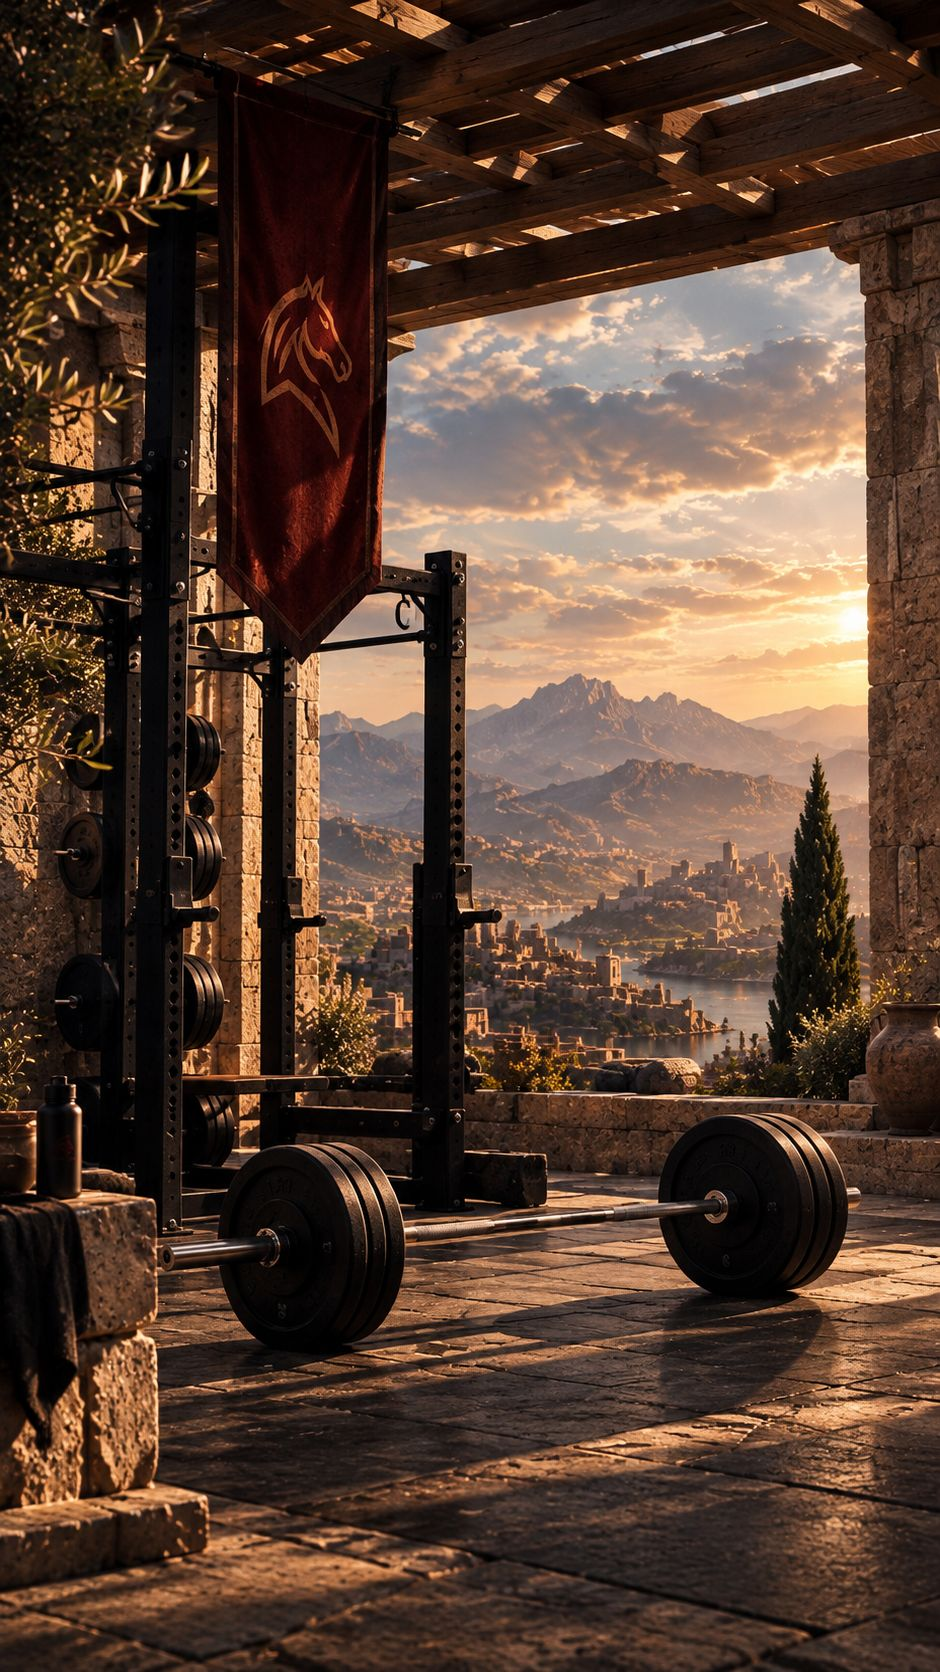
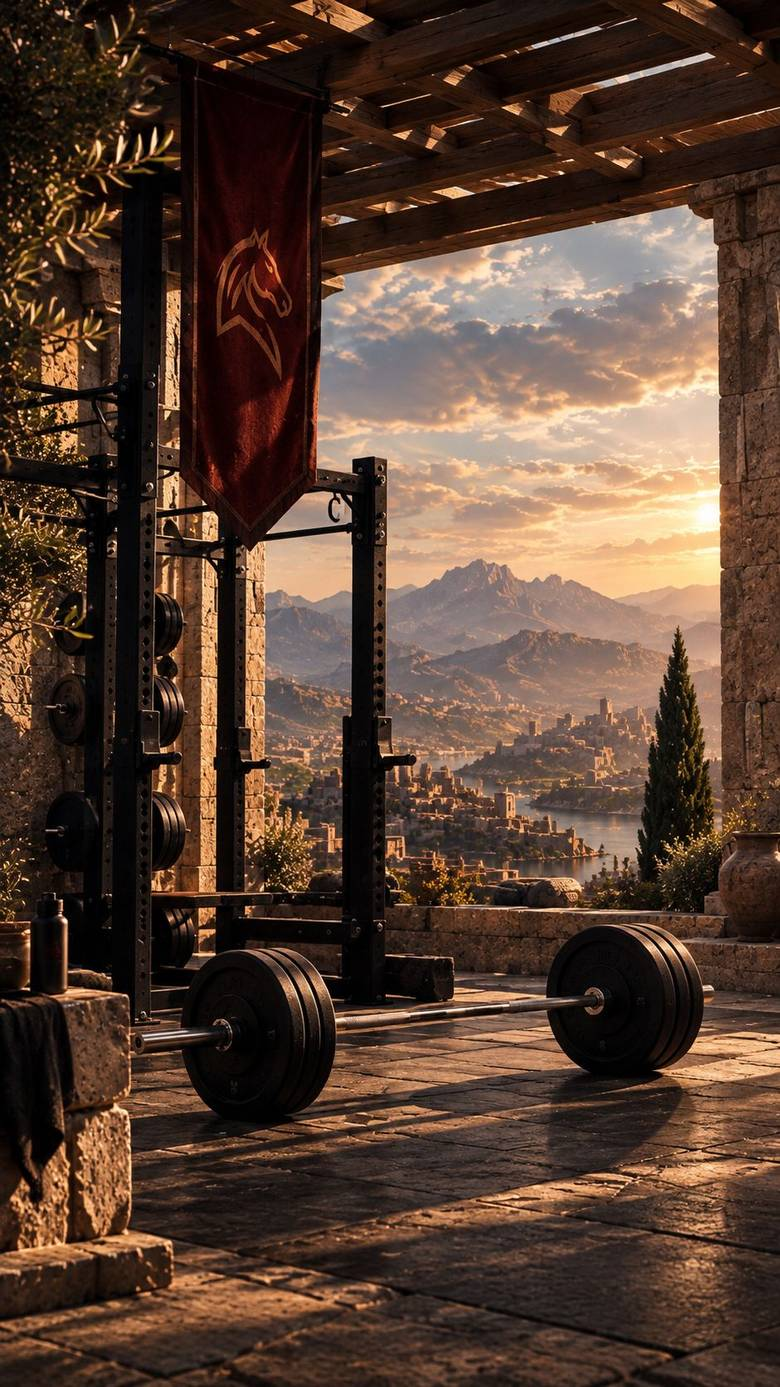
WP-9 step 4: the page photographs at a phone's size (v287)
The five large grounds re-encoded at 780 px wide, quality 70: 1,368 KB to
809 KB, about 2 MB less memory each decoded. No visible difference under the
veil. tests/design.mjs guards the size.

Claude-Session: https://claude.ai/code/session_018JDnzSTFbDYQpBWYUNHtQS

diff --git a/sw.js b/sw.js
@@ -5,7 +5,7 @@
    previous release's JS for one launch: markup the stylesheet no longer styles.
    Cache-first for images only.
    Bump CACHE whenever you change index.html. */
-const CACHE = "bunyan-v285";
+const CACHE = "bunyan-v287";
 /* instructions.json (595 KB) is deliberately absent: it is cached on first use by the
    catch-all handler below, so it no longer blocks first install. */
 const FILES = ["./", "./index.html", "./manifest.webmanifest",

diff --git a/js/version.js b/js/version.js
@@ -2,5 +2,5 @@
    The same number as sw.js's cache (bunyan-vN), shown under Profile and in About so a
    phone can be checked for an update. tests/architecture.mjs keeps the two equal: bump
    both together. */
-var VERSION=285;
+var VERSION=287;
 export {VERSION};

diff --git a/.claude/PROGRESS.md b/.claude/PROGRESS.md
@@ -4905,3 +4905,5 @@ method). Only timing and emphasis inside the same targets change. No formula cha
 
 **Restart notes say the release and when the app stopped (v285, 18 Nov).** Owner, 18 Nov, on v284: "The app is stable, but is it normal to see this message?" — Settings › About showed three "Unexpected restarts": two from the night of 17 Nov at 2 AM (the crash v273 fixed) and one at 8:53 PM on 17 Nov "after tab=train". The note is right that each was a real end of the page while it was on screen (a trace is wiped by pagehide and by going to the background, and update reloads go through pagehide), but it could not say on which release it happened, and the time it showed was the next launch's, not when the app stopped. js/ui/crashnote.js: each tap's trace carries the version (`v`), and while the app is on the screen its time is refreshed every 15 s (`s`, one small localStorage write); a note keeps both (`v`, `seen`). About shows when the app was last alive, the version and the tap before; notes kept before this release show what they have. A "Clear these notes" button (`data-crashclear`, handlers/profile.js) empties them, so a new one stands out. The restart test checks the version and the last sign of life are kept and shown, and that clearing removes the section.
 Also in v285: Contrast (Sage, light) failed on 18 Nov on the Coach page: the count beside "For you" ("2", 13 px, `.tsec>.libn`) is white with the halo, like the headers, but it sits at the right edge where the Sage photograph is lightest: 3.8:1. It appears only with two or more cards for you, so it depended on the day. In Sage light it now sits in a pill of the accent (`--accent` / `--onAccent`), like the cards' badges. The three contrast tests pass.
+
+**WP-9, step 4: the page photographs at a phone's size (v287, 18 Nov).** The five large grounds (img/page-home, training, workout, progress: 941 × 1672; coach: 941 × 1350) are 780 px wide now (two pixels to a point on a 390-point phone), JPEG quality 70, progressive: 322 → 191, 294 → 176, 255 → 157, 300 → 162, 197 → 123 KB (1,368 → 809 KB together). Each decodes to about 4.3 MB on the phone instead of 6.3. Compared at the phone's three pixels to a point under the veil, Training's top: no visible difference. Only the current page's picture is fetched at start already (measured: page-home alone on a Training start). The food, profile and warm-up pictures were already small and stay. They are precached in the versioned cache with cache:"reload", so the release brings the new ones. tests/design.mjs now also fails a page photograph wider than 800 px or over 200 KB (proven: the old page-home fails it).
